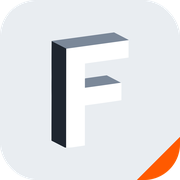
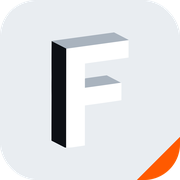
Revert orange markrow card; fix 3D F tones for true dimensionality on every background
- markrow back to 3 cards (on light / monogram on ink / monogram on light)
  per feedback - the orange addition wasn't wanted, only better shading
- logo-f-3d.svg facet tones rebalanced to a proper 3-step value scale
  (near-black shadow, mid-gray bevel, white front) so all three facets
  stay visible on ink AND slate backgrounds, not just mist/orange -
  previous tones were too close to their matching palette color and
  read as a flat white shape
- favicon/badge regenerated with the corrected tones

Changed region(s): [[0.2778, 0.1667, 0.7222, 0.8333], [0.4722, 0.4167, 0.6667, 0.5]]

diff --git a/index.html b/index.html
@@ -111,17 +111,18 @@
   .markgrid .wordcard{ background:var(--mist); }
   .markgrid .wordcard img, .markrow .c1 img{ max-width:85%; max-height:none; }
   .markgrid .fcard{ background:var(--slate); }
-  .markgrid .fcard img{ filter:brightness(0) invert(1); }
+  .markgrid .fcard img{ filter:brightness(0) invert(1); max-width:65%; max-height:65%; }
   .markrow{ display:grid; grid-template-columns:repeat(3,1fr); gap:clamp(20px,2.6vw,40px); margin-top:clamp(20px,2.6vw,40px); }
   @media (max-width:860px){ .markrow{ grid-template-columns:1fr; } }
   .markrow .c1{ background:#fff; border:1px solid var(--mist); }
   .markrow .c2{ background:var(--ink); border:1px solid rgba(255,255,255,.14); }
-  .markrow .c2 img{ filter:brightness(0) invert(1); }
+  .markrow .c2 img{ filter:brightness(0) invert(1); max-width:65%; max-height:65%; }
   .markrow .c3{ background:var(--mist); }
+  .markrow .c3 img{ max-width:65%; max-height:65%; }
 
   .colorrow{ display:grid; grid-template-columns:repeat(4,1fr); gap:clamp(14px,1.8vw,28px); margin-top:clamp(20px,2.6vw,40px); }
   @media (max-width:760px){ .colorrow{ grid-template-columns:repeat(2,1fr); } }
-  .colorrow .card img{ filter:brightness(0) invert(1); }
+  .colorrow .card img{ filter:brightness(0) invert(1); max-width:65%; max-height:65%; }
   .colorrow .card.on-light img{ filter:none; }
   .colorrow .card.on-light{ border:1px solid var(--slate-60); }
 
